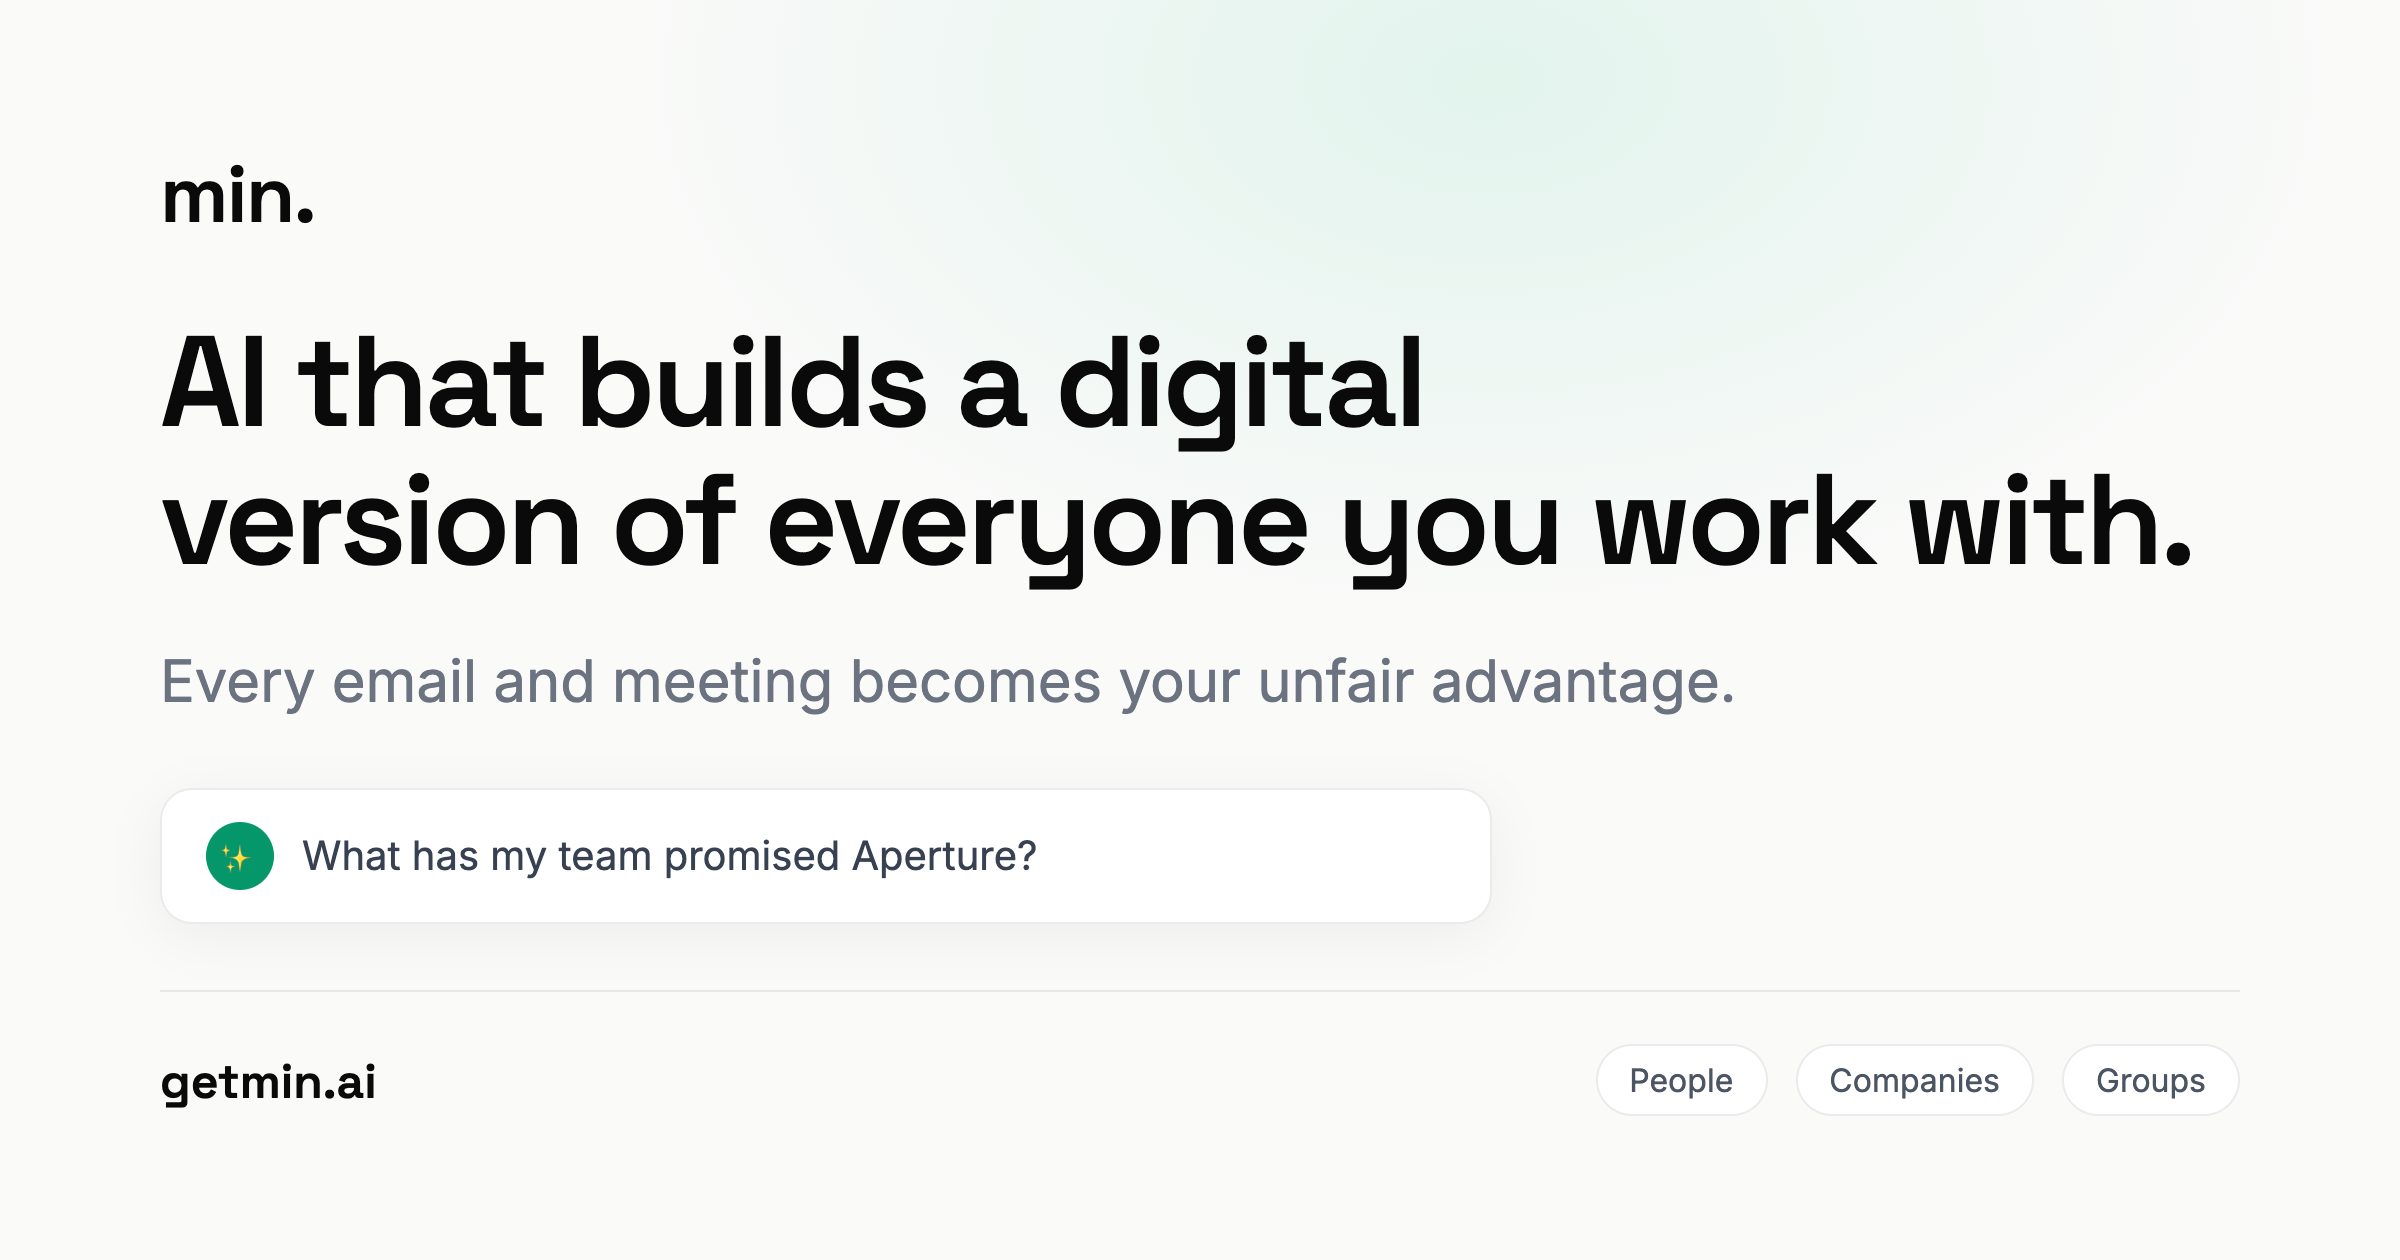
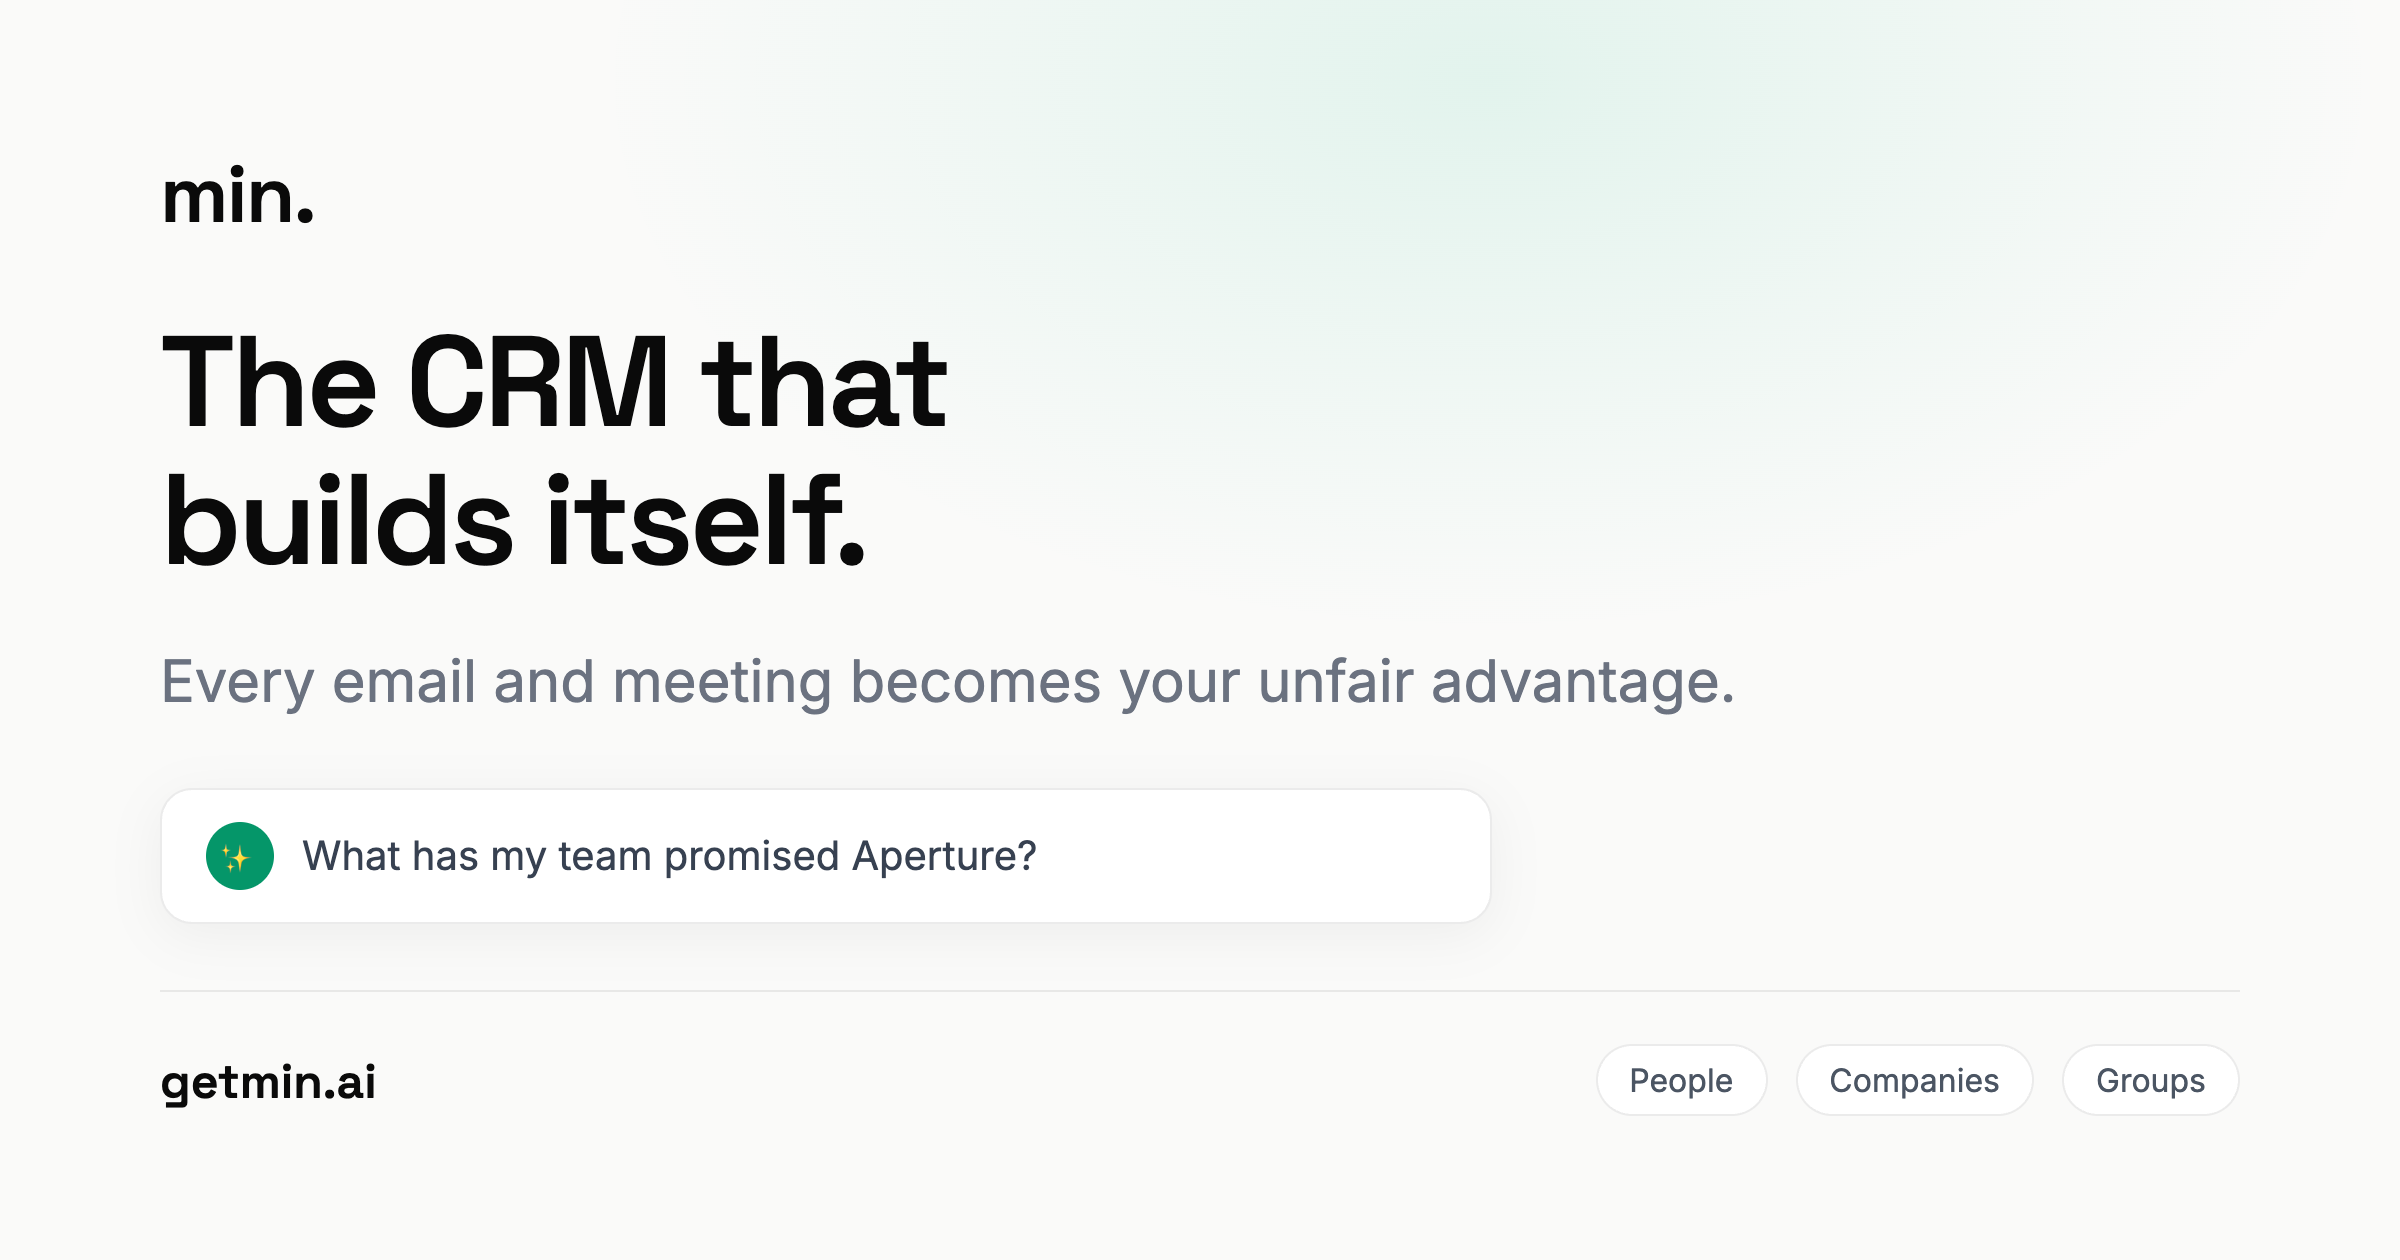
Rebrand: The CRM that builds itself
Launch-day call by Eric. Hero, title, meta, og and twitter tags, JSON-LD
slogan and description, the crawler block, the footer, llms.txt and the OG
card all move to the new line.

The delicate part was the anti-CRM copy the site already carried, which would
have contradicted the new hero within one scroll. The FAQ "Do we have to
replace our CRM?" is now "How is this a CRM if I never enter data?", and the
answer converts the old argument into the differentiation: it fills itself
from calls and email, tells you what to do next, and if you run a traditional
CRM for reporting you keep it. Same reconciliation in llms.txt so the Ask min.
bot says the same thing within its 15 minute cache.

Kept deliberately: the digital-version noun in the hero sub-line and demo
sections ("Ask your customer's version..." needs its antecedent), the
notetaker contrast, the three arenas, and the vision-layer blog post.

Changed region(s): [[0.0625, 0.2476, 0.9062, 0.4643]]

diff --git a/index.html b/index.html
@@ -4,32 +4,32 @@
   <head>
     <meta charset="UTF-8" />
     <meta name="viewport" content="width=device-width, initial-scale=1.0" />
-    <title>AI that builds a digital version of everyone you work with | min.</title>
+    <title>The CRM that builds itself | min.</title>
     <!-- Primary Meta Tags -->
-    <meta name="title" content="AI that builds a digital version of everyone you work with | min." />
-    <meta name="description" content="min. builds a digital version of everyone you work with. Every email and meeting becomes your unfair advantage. Get the callback. Close the deal." />
+    <meta name="title" content="The CRM that builds itself | min." />
+    <meta name="description" content="min. is the CRM that builds itself, automatically and continuously, from your meetings and emails. Every email and meeting becomes your unfair advantage." />
     <meta name="keywords" content="relationship AI, relationship assistant, relationship memory, relationship context layer, memory layer for CRM, relationship capsule, CRM alternative, calendar and email assistant, meeting prep, follow up reminders, relationship management" />
     <meta name="author" content="min." />
 
     <!-- Open Graph / Facebook -->
     <meta property="og:type" content="website" />
     <meta property="og:url" content="https://getmin.ai/" />
-    <meta property="og:title" content="AI that builds a digital version of everyone you work with | min." />
-    <meta property="og:description" content="min. builds a digital version of everyone you work with. Every email and meeting becomes your unfair advantage. Get the callback. Close the deal." />
+    <meta property="og:title" content="The CRM that builds itself | min." />
+    <meta property="og:description" content="min. is the CRM that builds itself, automatically and continuously, from your meetings and emails. Every email and meeting becomes your unfair advantage." />
     <meta property="og:image" content="https://getmin.ai/og-cover.png" />
     <meta property="og:image:width" content="2400" />
     <meta property="og:image:height" content="1260" />
-    <meta property="og:image:alt" content="min. — AI that builds a digital version of everyone you work with" />
+    <meta property="og:image:alt" content="min. — The CRM that builds itself" />
     <meta property="og:site_name" content="min." />
     <meta property="og:locale" content="en_US" />
 
     <!-- Twitter -->
     <meta name="twitter:card" content="summary_large_image" />
     <meta name="twitter:url" content="https://getmin.ai/" />
-    <meta name="twitter:title" content="AI that builds a digital version of everyone you work with | min." />
-    <meta name="twitter:description" content="min. builds a digital version of everyone you work with. Every email and meeting becomes your unfair advantage. Get the callback. Close the deal." />
+    <meta name="twitter:title" content="The CRM that builds itself | min." />
+    <meta name="twitter:description" content="min. is the CRM that builds itself, automatically and continuously, from your meetings and emails. Every email and meeting becomes your unfair advantage." />
     <meta name="twitter:image" content="https://getmin.ai/og-cover.png" />
-    <meta name="twitter:image:alt" content="min. — AI that builds a digital version of everyone you work with" />
+    <meta name="twitter:image:alt" content="min. — The CRM that builds itself" />
     <meta name="twitter:creator" content="@getminai" />
     <meta name="twitter:site" content="@getminai" />
     
@@ -57,7 +57,7 @@
           "name": "min.",
           "url": "https://getmin.ai",
           "logo": "https://getmin.ai/favicon.png",
-          "slogan": "AI that builds a digital version of everyone you work with.",
+          "slogan": "The CRM that builds itself.",
           "email": "hello@getmin.ai",
           "sameAs": ["https://x.com/getminai"]
         },
@@ -72,7 +72,7 @@
           "@type": "SoftwareApplication",
           "@id": "https://getmin.ai/#app",
           "name": "min.",
-          "description": "AI that builds a digital version of everyone you work with. min. records meetings without a bot, reads email and calendar, and distills every relationship that decides your outcomes into a living capsule: where you stand, action items, and history. It does not just answer, it acts: books the meeting, drafts the follow up, chases what is owed.",
+          "description": "The CRM that builds itself. min. records meetings without a bot, reads email and calendar, and distills every relationship that decides your outcomes into a living capsule: where you stand, action items, and history. It does not just answer, it acts: books the meeting, drafts the follow up, chases what is owed.",
           "applicationCategory": "BusinessApplication",
           "applicationSubCategory": "Relationship Intelligence",
           "operatingSystem": "macOS, Windows",
@@ -124,10 +124,10 @@
             },
             {
               "@type": "Question",
-              "name": "Do we have to replace our CRM?",
+              "name": "How is this a CRM if I never enter data?",
               "acceptedAnswer": {
                 "@type": "Answer",
-                "text": "No. A CRM tracks deals. min. closes them. A CRM only knows what someone remembered to type into it, and it never tells you what to do next. min. builds itself from your calls and email, then hands you the move. Keep the CRM for reporting and paste any capsule straight into it."
+                "text": "min. is the CRM that builds itself: it fills from your calls and email with zero data entry, and it tells you what to do next. If your team already runs a CRM for reporting, keep it and paste any capsule straight in. min. replaces the data entry, not your reporting."
               }
             },
             {
@@ -156,10 +156,11 @@
         <style>#root > main[hidden] { display: block; }</style>
       </noscript>
       <main hidden>
-        <h1>AI that builds a digital version of everyone you work with.</h1>
+        <h1>The CRM that builds itself.</h1>
         <p>
-          Every email and meeting becomes your unfair advantage. Get the
-          callback. Close the deal. Land that promotion.
+          min. sits in your inbox and on your calls (botless) and builds a digital
+          version of everyone you work with. Every email and meeting becomes your
+          unfair advantage.
         </p>
         <p>For macOS and Windows. Google and Outlook calendars. Two minute setup.</p>
         <p>

diff --git a/src/components/landing/LandingHero.tsx b/src/components/landing/LandingHero.tsx
@@ -15,14 +15,15 @@ export default function LandingHero() {
         <div className="text-center lg:text-left">
           <FadeIn delay={0.1}>
             <h1 className="font-display text-[2.6rem] font-semibold leading-[1.08] tracking-tight text-gray-900 sm:text-5xl md:text-6xl">
-              AI that builds a digital version of everyone you work with.
+              The CRM that builds itself.
             </h1>
           </FadeIn>
 
           <FadeIn delay={0.18}>
             <p className="mx-auto mt-6 max-w-xl text-[17px] leading-relaxed text-gray-500 lg:mx-0">
-              Every email and meeting becomes your unfair advantage.
-                Get the callback. Close the deal. Land that promotion.
+              min. sits in your inbox and on your calls (botless) and builds a digital
+                version of everyone you work with. Every email and meeting becomes
+                your unfair advantage.
             </p>
           </FadeIn>
 

diff --git a/src/pages/Pricing.tsx b/src/pages/Pricing.tsx
@@ -74,8 +74,8 @@ const FAQS = [
     a: "Yes, on every plan. Share a single meeting, a person capsule, or a whole company capsule. Revocable any time.",
   },
   {
-    q: "Do we have to replace our CRM?",
-    a: "No. A CRM tracks deals. min. closes them. A CRM only knows what someone remembered to type into it, and it never tells you what to do next. min. builds itself from your calls and email, then hands you the move. Keep the CRM for reporting and paste any capsule straight into it.",
+    q: "How is this a CRM if I never enter data?",
+    a: "min. is the CRM that builds itself: it fills from your calls and email with zero data entry, and it tells you what to do next. If your team already runs a CRM for reporting, keep it and paste any capsule straight in. min. replaces the data entry, not your reporting.",
   },
   {
     q: "Do you store my email?",

diff --git a/src/pages/Index.tsx b/src/pages/Index.tsx
@@ -12,10 +12,10 @@ const Index = () => {
   return (
     <>
       <Helmet>
-        <title>AI that builds a digital version of everyone you work with | min.</title>
+        <title>The CRM that builds itself | min.</title>
         <meta
           name="description"
-          content="min. builds a digital version of everyone you work with. Every email and meeting becomes your unfair advantage. Get the callback. Close the deal."
+          content="min. is the CRM that builds itself, automatically and continuously, from your meetings and emails. Every email and meeting becomes your unfair advantage."
         />
         <link rel="canonical" href="https://getmin.ai/" />
       </Helmet>

diff --git a/src/components/MinFooter.tsx b/src/components/MinFooter.tsx
@@ -41,9 +41,9 @@ export default function MinFooter() {
               min.
             </Link>
             <p className="text-gray-500 text-sm leading-relaxed max-w-xs">
-              AI that builds a digital version of everyone you work with. min.
-              turns scattered calls and emails into a living memory, then puts it
-              to work: the prep, the follow up, the next move.
+              The CRM that builds itself. min. turns scattered calls and emails into a
+              digital version of everyone you work with, then puts it to work: the
+              prep, the follow up, the next move.
             </p>
           </div>
 

diff --git a/public/og-image.html b/public/og-image.html
@@ -148,7 +148,7 @@
             <div>
                 <div class="logo">min.</div>
                 <div class="headline">
-                    AI that builds a digital<br>version of everyone you work with.
+                    The CRM that<br>builds itself.
                 </div>
                 <div class="subheadline">
                     Every email and meeting becomes your unfair advantage.
